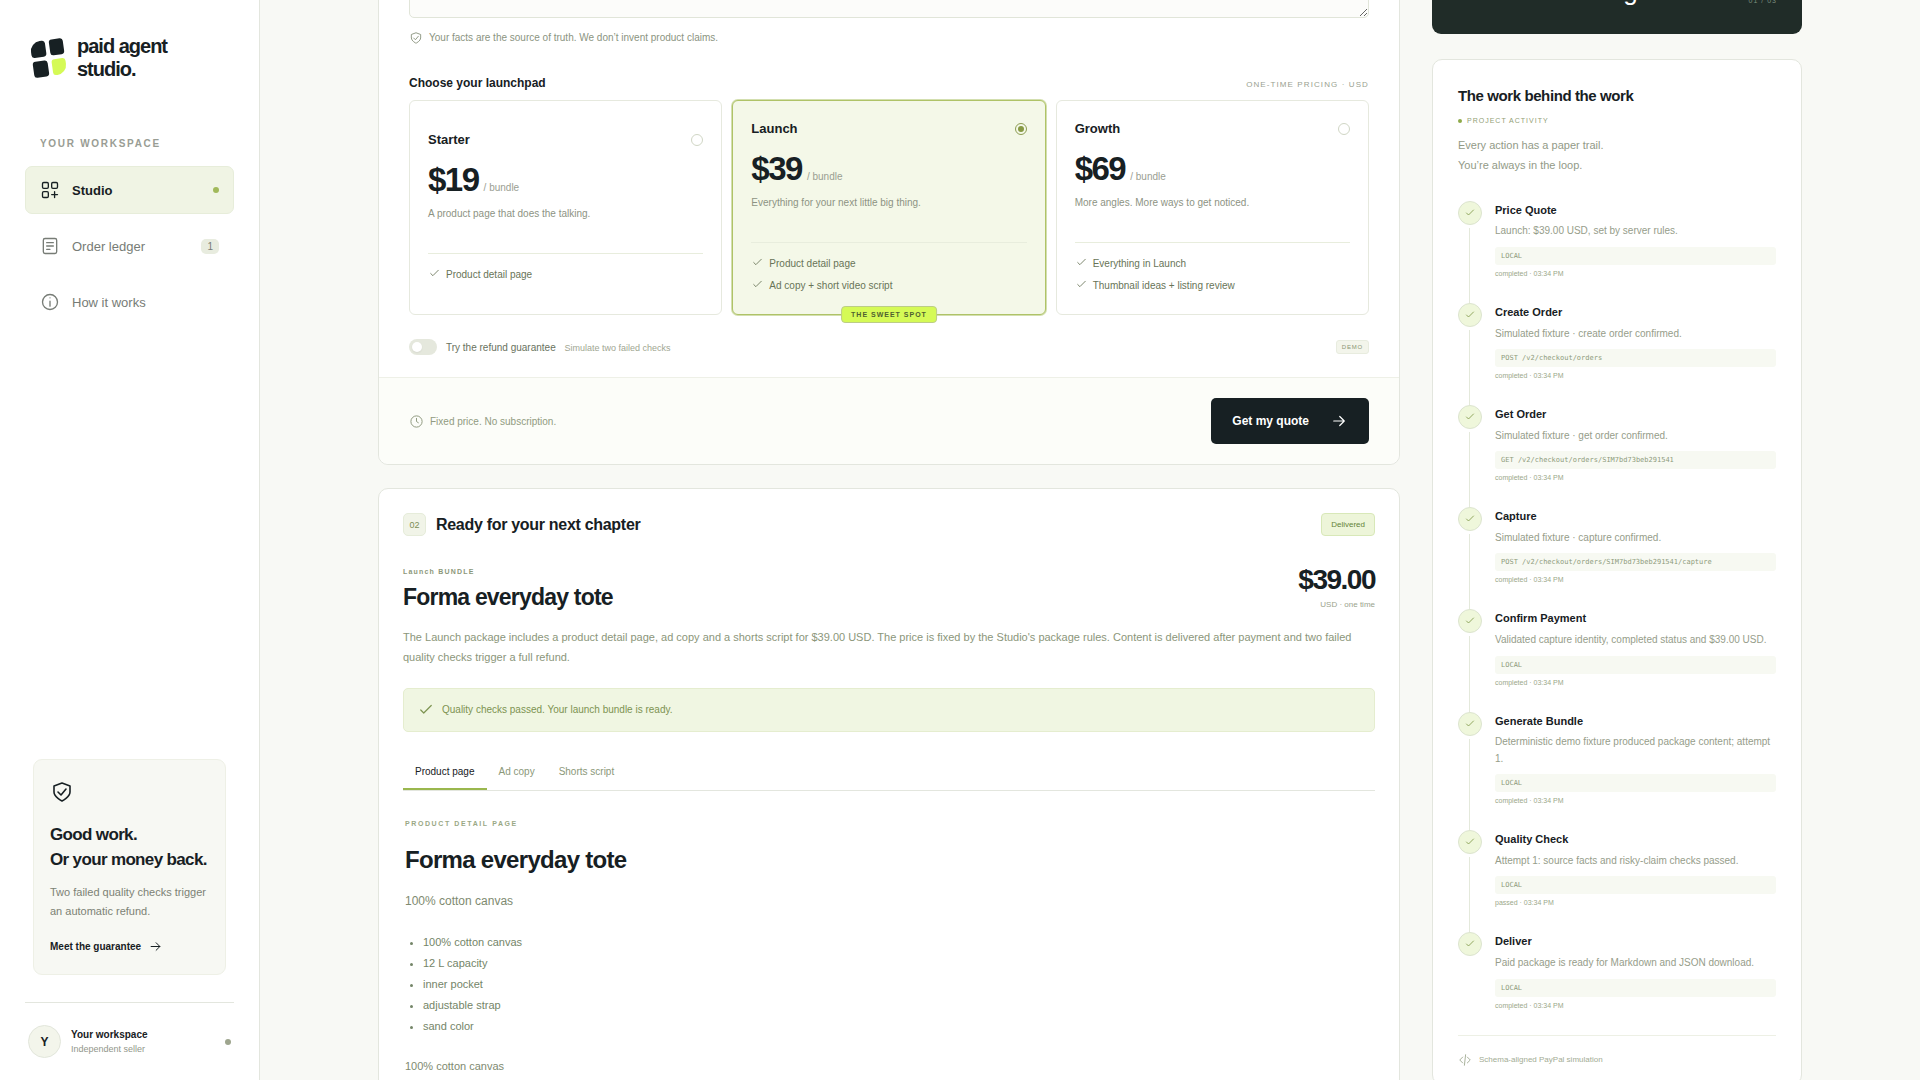
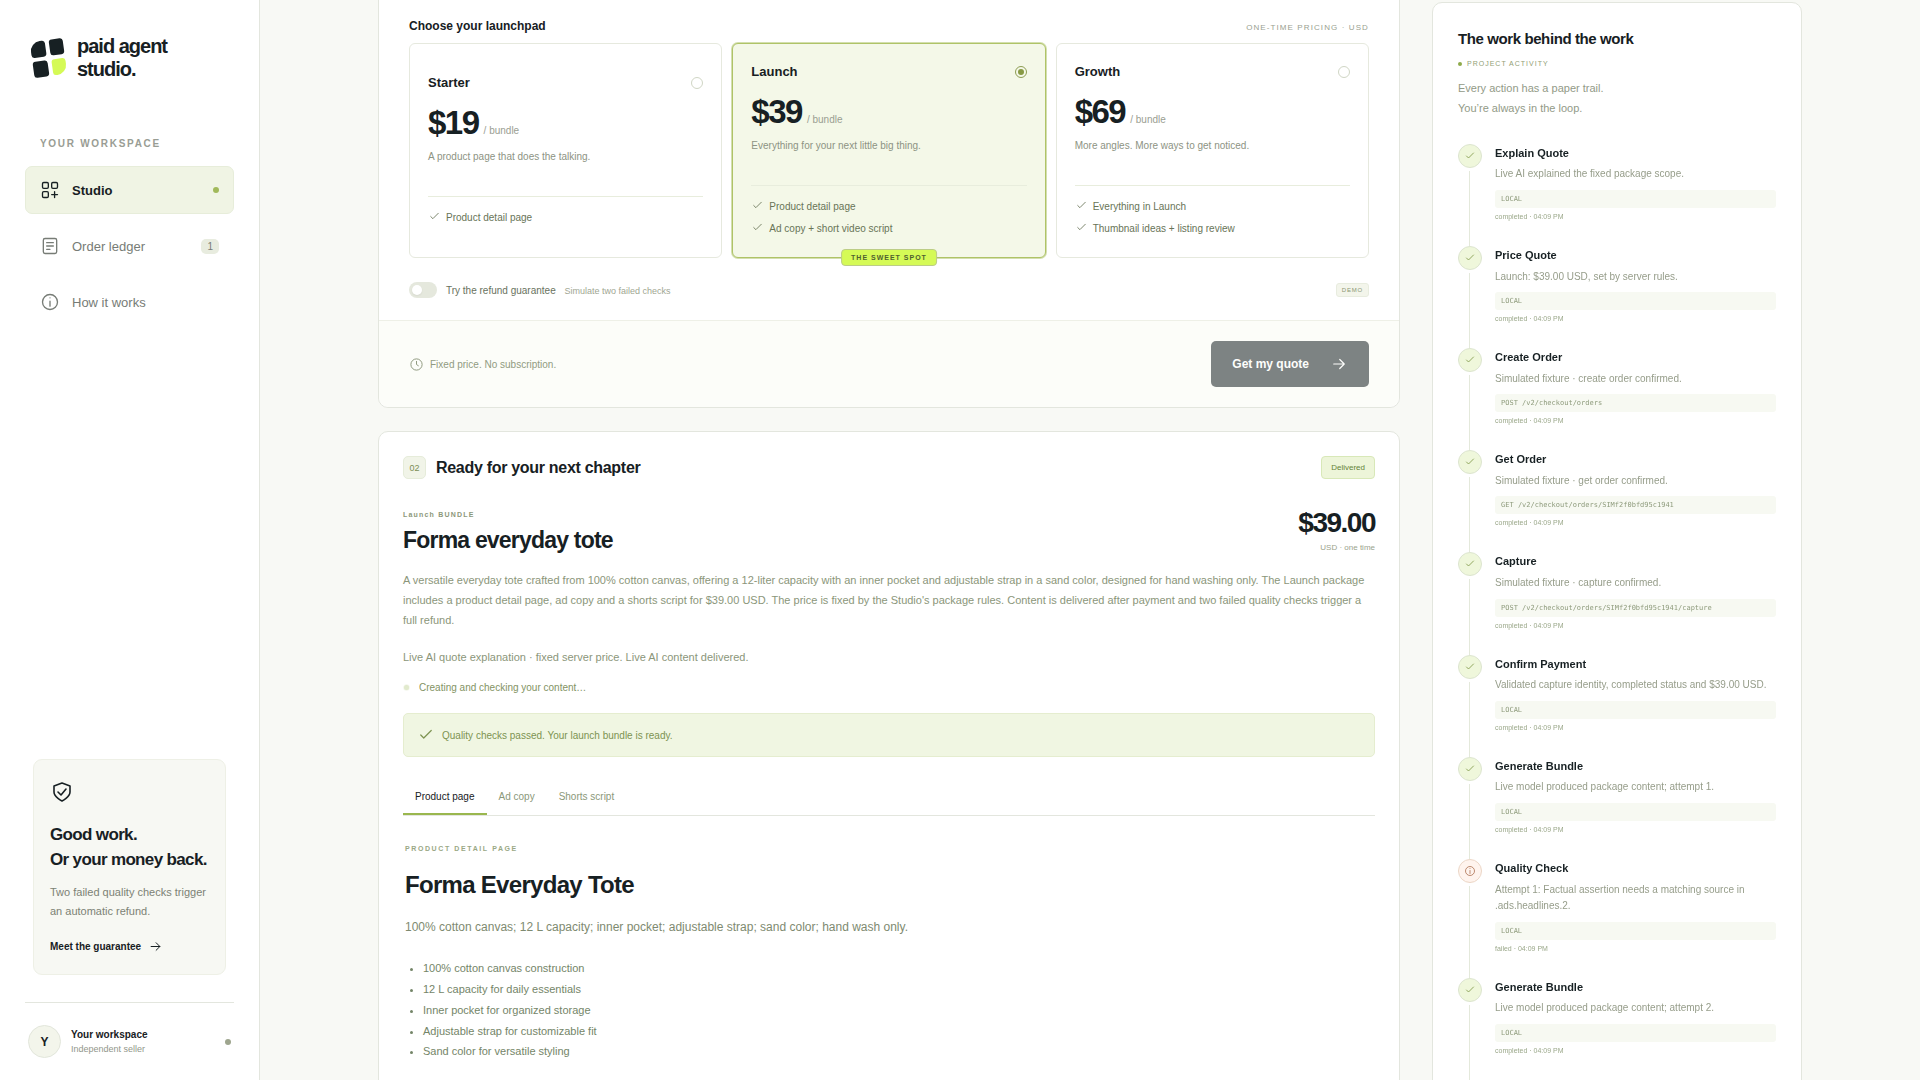
Record verified live Nebius delivery and production captures

diff --git a/README.md b/README.md
@@ -30,6 +30,8 @@ Production uses `LLM_BASE_URL=https://api.tokenfactory.nebius.com/v1` and `LLM_M
 
 The client disables model thinking with `chat_template_kwargs: {"enable_thinking": false}` and `/no_think`, reads final `message.content` only, strips `<think>` blocks, and requests JSON objects for content bundles. Quote calls allow 512 tokens / 20 seconds; content calls allow 5,000 tokens / 45 seconds. Tolerant JSON extraction accepts surrounding fences or prose. Empty, truncated, invalid, and timed-out responses fail safely. Orders report `quoteMode`, `aiMode`, `aiNotice`, and real provider usage in `llmUsage` so judges can distinguish live output from fixtures. Quote fallback and simulated content fallback are visible in the Studio; real paid Sandbox jobs preserve QC/refund behavior instead of delivering fixtures.
 
+Live production verification on October 16, 2026 passed: live quote explanation, live structured content after one QC rewrite, simulated checkout, downloads, refund demonstration, ledger, session isolation, and mobile layout. The final capture used four calls / 3,021 reported tokens with zero reasoning tokens. Across the metered diagnostic and final runs, usage was 5,861 tokens; an earlier failed browser run made up to three additional calls whose usage was not retained. See [`media/verification.json`](media/verification.json) for final-run usage and [`media/02-quote.png`](media/02-quote.png) / [`media/03-delivery.png`](media/03-delivery.png) for live results. All five desktop captures are 1920×1080; the sixth is the mobile check. Refund imagery intentionally demonstrates fixtures and simulated payments.
+
 PayPal payments remain simulated until the owner supplies the Sandbox keys, webhook registration, and durable storage listed below. The intentional refund demonstration always uses fixtures.
 
 ## Architecture
